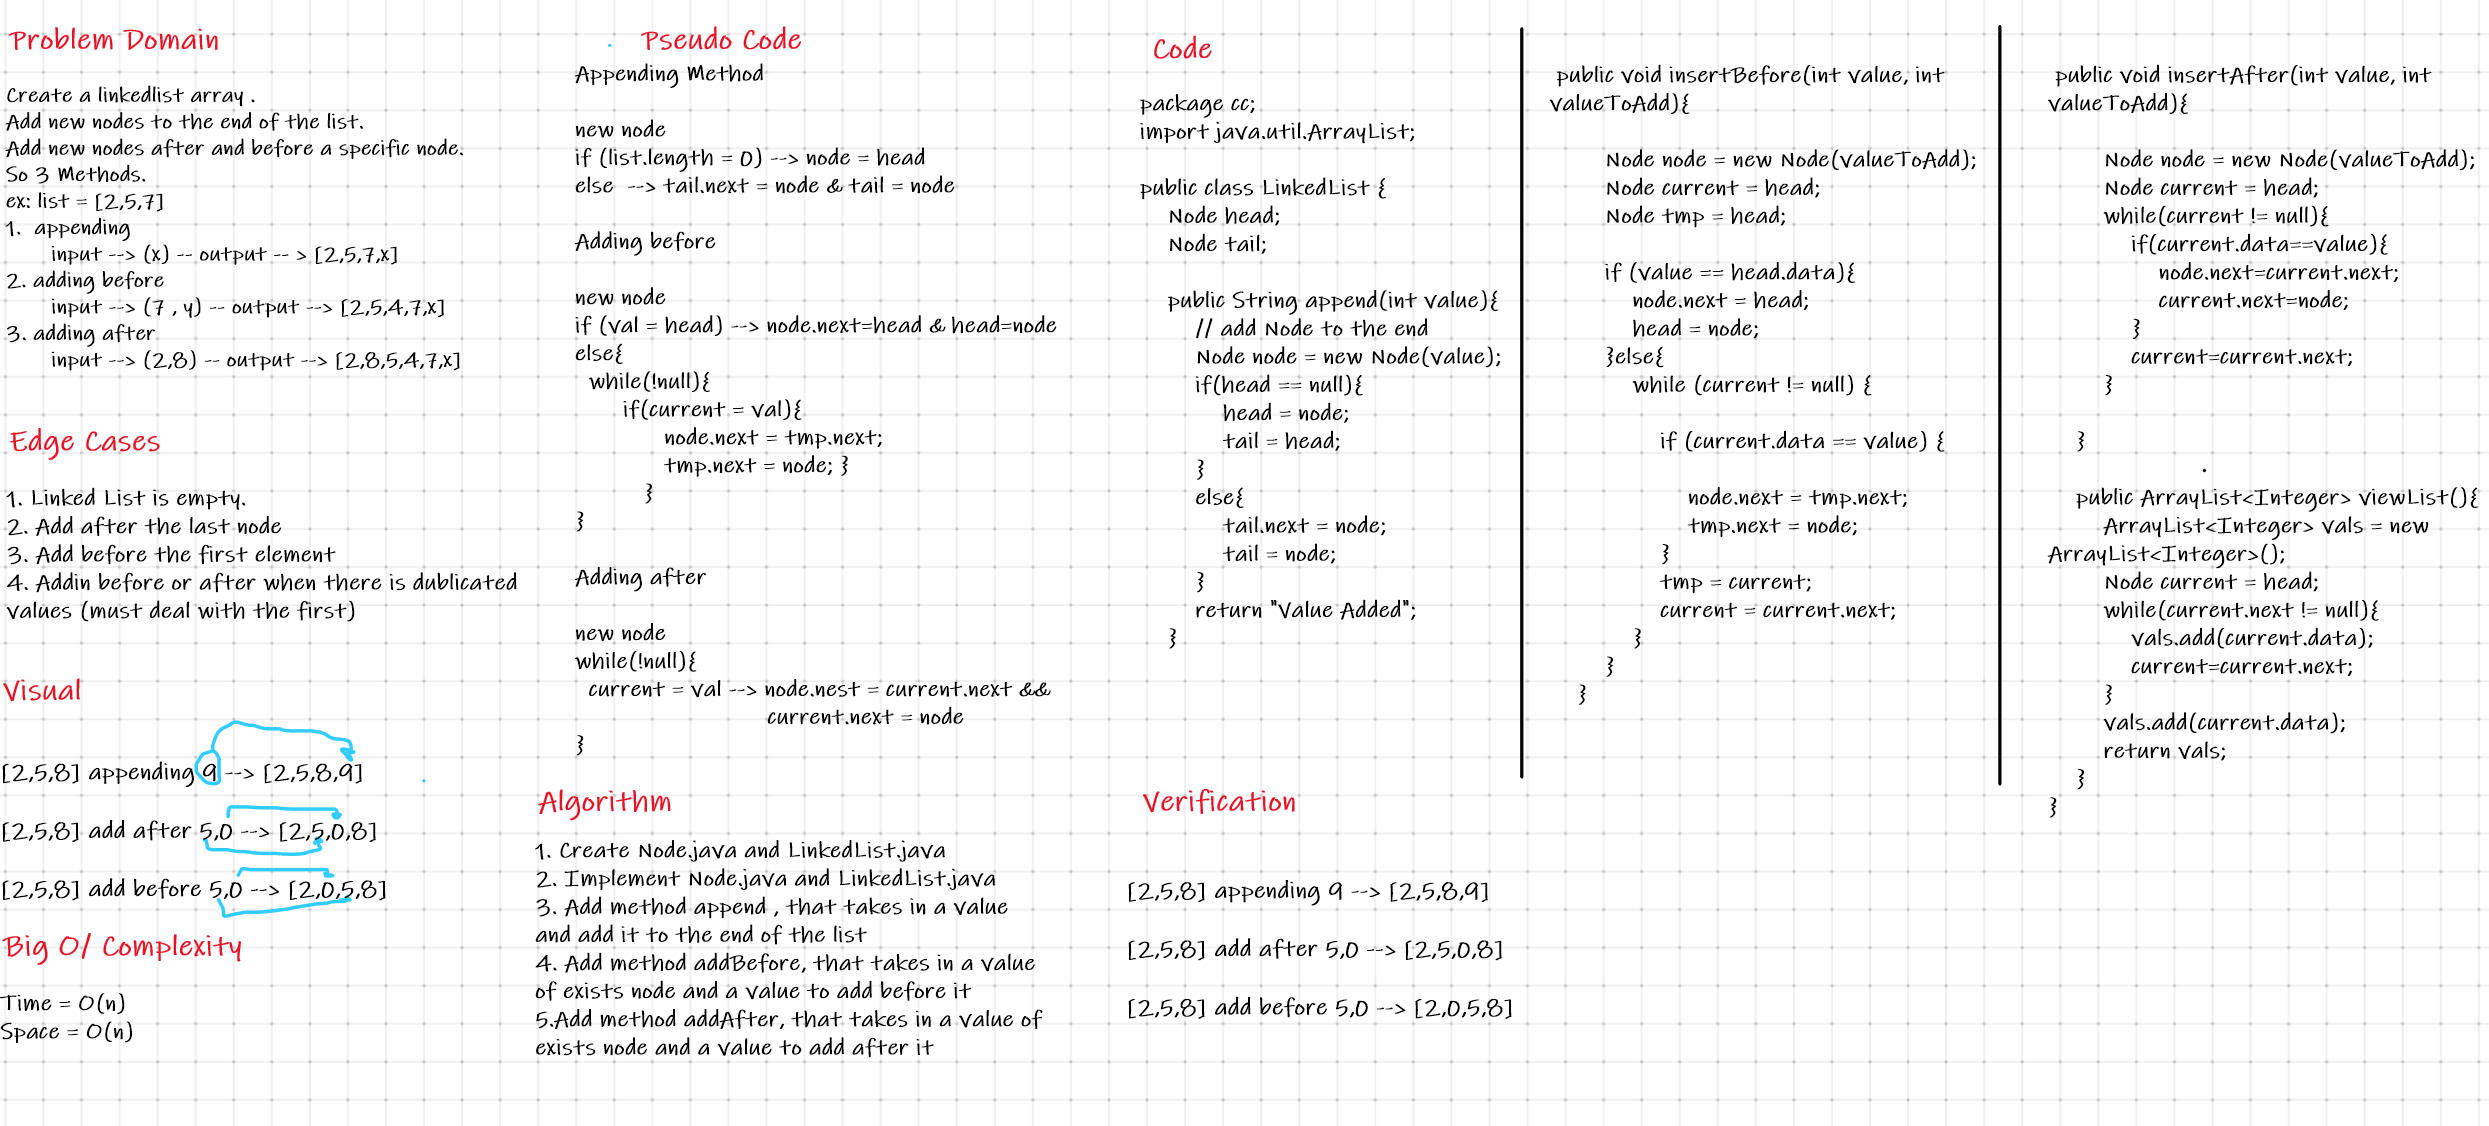
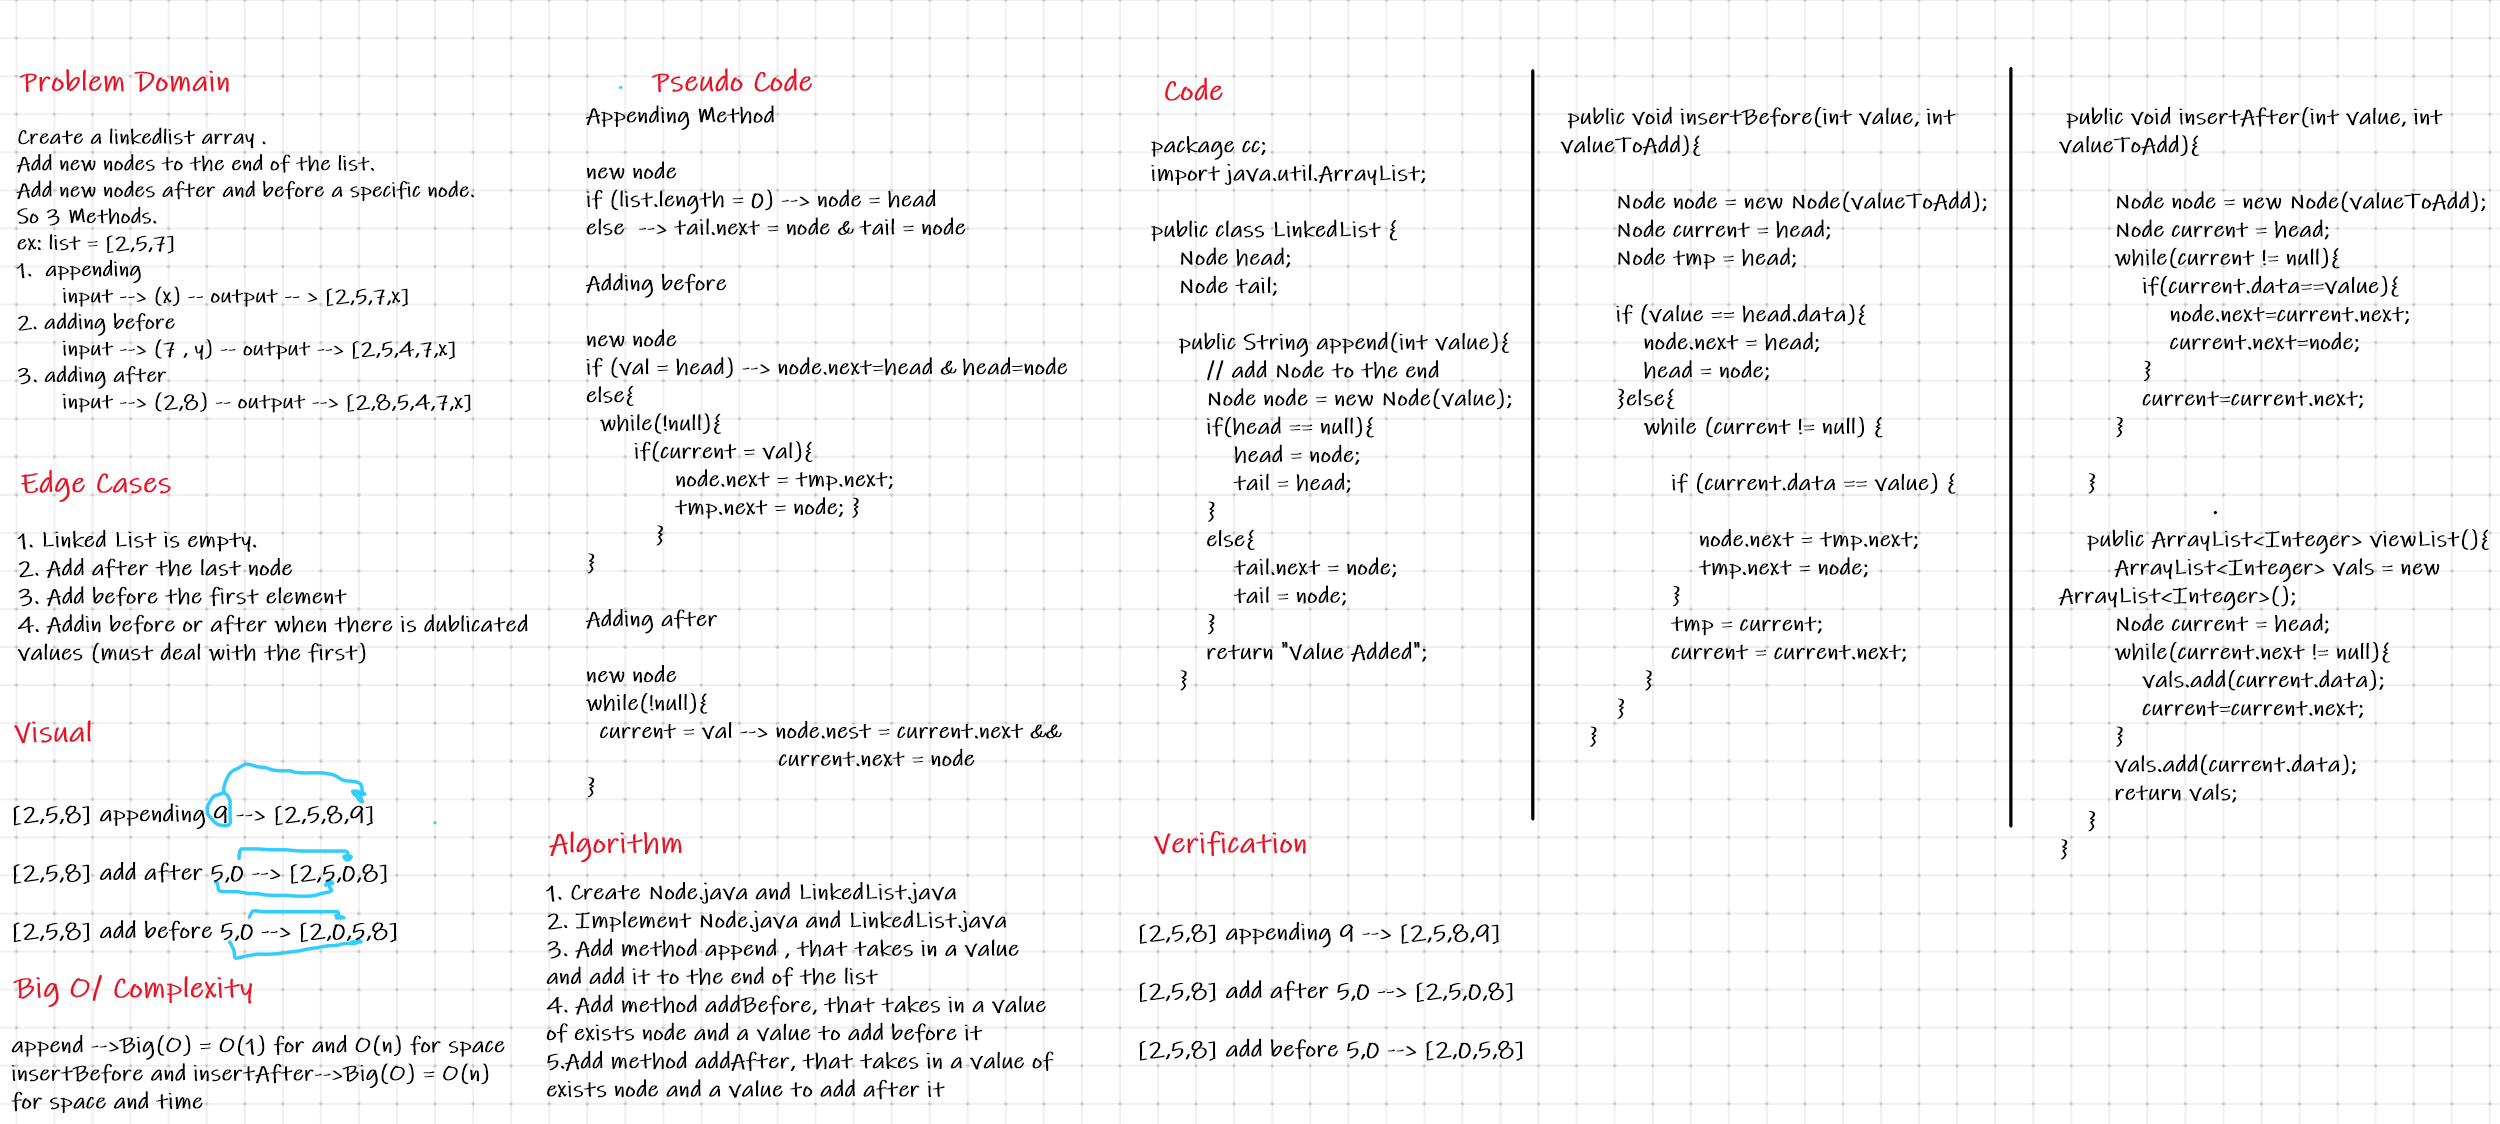
resubmit

diff --git a/cc-06/app/build/reports/tests/test/classes/cc.AppTest.html b/cc-06/app/build/reports/tests/test/classes/cc.AppTest.html
@@ -41,7 +41,7 @@
 </td>
 <td>
 <div class="infoBox" id="duration">
-<div class="counter">0.036s</div>
+<div class="counter">0.031s</div>
 <p>duration</p>
 </div>
 </td>
@@ -76,12 +76,12 @@
 </thead>
 <tr>
 <td class="success">appHasAGreeting()</td>
-<td class="success">0.002s</td>
+<td class="success">0.004s</td>
 <td class="success">passed</td>
 </tr>
 <tr>
 <td class="success">testMethods()</td>
-<td class="success">0.034s</td>
+<td class="success">0.027s</td>
 <td class="success">passed</td>
 </tr>
 </table>
@@ -94,7 +94,7 @@
 <input id="line-wrapping-toggle" type="checkbox" autocomplete="off"/>
 </label>
 </div>Generated by 
-<a href="http://www.gradle.org">Gradle 7.1.1</a> at Aug 1, 2021, 8:52:58 PM</p>
+<a href="http://www.gradle.org">Gradle 7.1.1</a> at Aug 3, 2021, 1:20:49 PM</p>
 </div>
 </div>
 </body>

diff --git a/cc-06/app/build/reports/tests/test/index.html b/cc-06/app/build/reports/tests/test/index.html
@@ -38,7 +38,7 @@
 </td>
 <td>
 <div class="infoBox" id="duration">
-<div class="counter">0.036s</div>
+<div class="counter">0.031s</div>
 <p>duration</p>
 </div>
 </td>
@@ -85,7 +85,7 @@
 <td>2</td>
 <td>0</td>
 <td>0</td>
-<td>0.036s</td>
+<td>0.031s</td>
 <td class="success">100%</td>
 </tr>
 </tbody>
@@ -112,7 +112,7 @@
 <td>2</td>
 <td>0</td>
 <td>0</td>
-<td>0.036s</td>
+<td>0.031s</td>
 <td class="success">100%</td>
 </tr>
 </tbody>
@@ -126,7 +126,7 @@
 <input id="line-wrapping-toggle" type="checkbox" autocomplete="off"/>
 </label>
 </div>Generated by 
-<a href="http://www.gradle.org">Gradle 7.1.1</a> at Aug 1, 2021, 8:52:58 PM</p>
+<a href="http://www.gradle.org">Gradle 7.1.1</a> at Aug 3, 2021, 1:20:49 PM</p>
 </div>
 </div>
 </body>

diff --git a/cc-06/app/build/reports/tests/test/packages/cc.html b/cc-06/app/build/reports/tests/test/packages/cc.html
@@ -40,7 +40,7 @@
 </td>
 <td>
 <div class="infoBox" id="duration">
-<div class="counter">0.036s</div>
+<div class="counter">0.031s</div>
 <p>duration</p>
 </div>
 </td>
@@ -83,7 +83,7 @@
 <td>2</td>
 <td>0</td>
 <td>0</td>
-<td>0.036s</td>
+<td>0.031s</td>
 <td class="success">100%</td>
 </tr>
 </table>
@@ -96,7 +96,7 @@
 <input id="line-wrapping-toggle" type="checkbox" autocomplete="off"/>
 </label>
 </div>Generated by 
-<a href="http://www.gradle.org">Gradle 7.1.1</a> at Aug 1, 2021, 8:52:58 PM</p>
+<a href="http://www.gradle.org">Gradle 7.1.1</a> at Aug 3, 2021, 1:20:49 PM</p>
 </div>
 </div>
 </body>

diff --git a/cc-06/app/src/main/java/cc/LinkedList.java b/cc-06/app/src/main/java/cc/LinkedList.java
@@ -19,11 +19,6 @@ public class LinkedList {
         return "Value Added";
     }
 
-    public void addFirst(int value){
-        Node tmp = head;
-        head.data=value;
-        head.next=tmp;
-    }
 
     public void insertBefore(int value, int valueToAdd){
 

diff --git a/cc-06/read06.md b/cc-06/read06.md
@@ -6,8 +6,12 @@ In This challenge , add Node to the end of the LinkedList + add a node before an
 
 ## Approach & Efficiency
 I spent most of the time trying to solve the adding before and after specific node, I got stuck in the if condition for hours!
-Big(O) space = O(n)
-Big(O) time = O(n)
+
+Method append -->Big(O) = O(1) for and O(n) for space
+
+Method insertBefore -->Big(O) = O(n) for space and time
+
+Method insertAfter -->Big(O) = O(n) for space and time
 
 ## Solution
 append(value);
